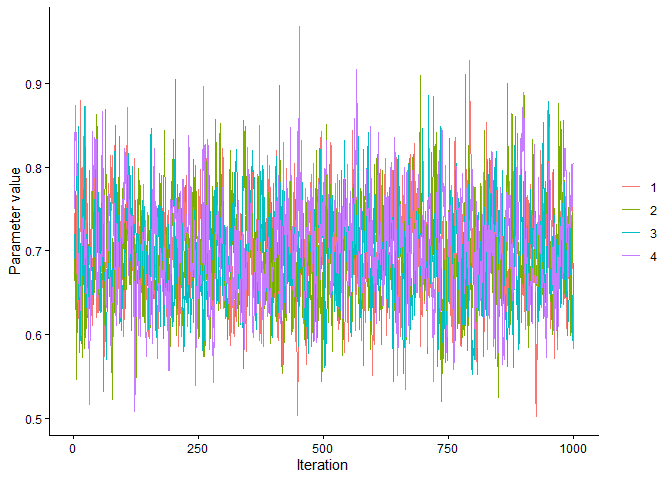
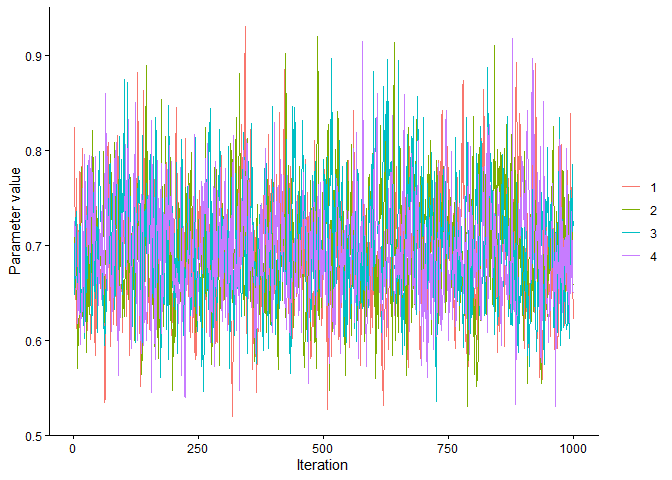
with figs

diff --git a/README.md b/README.md
@@ -142,16 +142,16 @@ library(tidyverse)
 
     ## Warning: Paket 'lubridate' wurde unter R Version 4.5.3 erstellt
 
-    ## ââ Attaching core tidyverse packages ââââââââââââââââââââââââ tidyverse 2.0.0 ââ
-    ## â dplyr     1.2.1     â readr     2.1.5
-    ## â forcats   1.0.1     â stringr   1.6.0
-    ## â ggplot2   4.0.3     â tibble    3.3.1
-    ## â lubridate 1.9.5     â tidyr     1.3.2
-    ## â purrr     1.2.0     
-    ## ââ Conflicts ââââââââââââââââââââââââââââââââââââââââââ tidyverse_conflicts() ââ
-    ## â dplyr::filter() masks stats::filter()
-    ## â dplyr::lag()    masks stats::lag()
-    ## â¹ Use the conflicted package (<http://conflicted.r-lib.org/>) to force all conflicts to become errors
+    ## ── Attaching core tidyverse packages ──────────────────────── tidyverse 2.0.0 ──
+    ## ✔ dplyr     1.2.1     ✔ readr     2.1.5
+    ## ✔ forcats   1.0.1     ✔ stringr   1.6.0
+    ## ✔ ggplot2   4.0.3     ✔ tibble    3.3.1
+    ## ✔ lubridate 1.9.5     ✔ tidyr     1.3.2
+    ## ✔ purrr     1.2.0     
+    ## ── Conflicts ────────────────────────────────────────── tidyverse_conflicts() ──
+    ## ✖ dplyr::filter() masks stats::filter()
+    ## ✖ dplyr::lag()    masks stats::lag()
+    ## ℹ Use the conflicted package (<http://conflicted.r-lib.org/>) to force all conflicts to become errors
 
 ``` r
 data(extraversion, package = "diffIRT")
@@ -172,7 +172,7 @@ Extra$item <- factor(Extra$item)
 head(Extra)
 ```
 
-    ## # A tibble: 6 Ã 4
+    ## # A tibble: 6 × 4
     ##     sbj item   resp    rt
     ##   <int> <fct> <dbl> <dbl>
     ## 1     1 Item1     0 2.73 
@@ -230,26 +230,6 @@ recognized:
 - “qRV” for the Q-diffusion model with random variability (for ability
   tests).
 
-``` r
-samples <- 
-  fitBayesDiffIRT(Extra,
-                  rt = "rt", resp = "resp", sbj = "sbj",
-                  item = "item", model = "d")
-```
-
-    ## In file included from stan/src/stan/model/model_header.hpp:5:
-    ## stan/src/stan/model/model_base_crtp.hpp:205:8: warning: 'void stan::model::model_base_crtp<M>::write_array(stan::rng_t&, std::vector<double>&, std::vector<int>&, std::vector<double>&, bool, bool, std::ostream*) const [with M = ddiffusion_model_namespace::ddiffusion_model; stan::rng_t = boost::random::mixmax_engine<17, 36, 0>; std::ostream = std::basic_ostream<char>]' was hidden [-Woverloaded-virtual=]
-    ##   205 |   void write_array(stan::rng_t& rng, std::vector<double>& theta,
-    ##       |        ^~~~~~~~~~~
-
-    ## C:/Users/marausch/AppData/Local/Temp/RtmpeINp8S/model-38e435d22dd2.hpp:1348: note:   by 'ddiffusion_model_namespace::ddiffusion_model::write_array'
-    ##  1348 |   write_array(RNG& base_rng, std::vector<double>& params_r, std::vector<int>&
-    ## stan/src/stan/model/model_base_crtp.hpp:136:8: warning: 'void stan::model::model_base_crtp<M>::write_array(stan::rng_t&, Eigen::VectorXd&, Eigen::VectorXd&, bool, bool, std::ostream*) const [with M = ddiffusion_model_namespace::ddiffusion_model; stan::rng_t = boost::random::mixmax_engine<17, 36, 0>; Eigen::VectorXd = Eigen::Matrix<double, -1, 1>; std::ostream = std::basic_ostream<char>]' was hidden [-Woverloaded-virtual=]
-    ##   136 |   void write_array(stan::rng_t& rng, Eigen::VectorXd& theta,
-    ##       |        ^~~~~~~~~~~
-    ## C:/Users/marausch/AppData/Local/Temp/RtmpeINp8S/model-38e435d22dd2.hpp:1348: note:   by 'ddiffusion_model_namespace::ddiffusion_model::write_array'
-    ##  1348 |   write_array(RNG& base_rng, std::vector<double>& params_r, std::vector<int>&
-
 ## 4.2 Inspecting the results
 
 The results of a fitted Bayesian diffusion item-response theory model
@@ -275,68 +255,68 @@ summary(samples)
     ## Posterior summaries:
     ## 
     ## Hyperparameters:
-    ## # A tibble: 2 Ã 9
+    ## # A tibble: 2 × 9
     ##   variable     mean median    sd    q5   q95  rhat ess_bulk ess_tail
     ##   <chr>       <dbl>  <dbl> <dbl> <dbl> <dbl> <dbl>    <dbl>    <dbl>
-    ## 1 omega_theta   0.7   0.69  0.06  0.6   0.8      1    1263.    1781.
-    ## 2 omega_gamma   0.2   0.2   0.03  0.16  0.25     1     821.    1309.
+    ## 1 omega_theta   0.7   0.69  0.06  0.6   0.8      1    1219.    2265.
+    ## 2 omega_gamma   0.2   0.2   0.03  0.15  0.25     1     891.    1592.
     ## 
     ## Item parameters:
-    ## # A tibble: 20 Ã 9
+    ## # A tibble: 20 × 9
     ##    variable  mean median    sd    q5   q95  rhat ess_bulk ess_tail
     ##    <chr>    <dbl>  <dbl> <dbl> <dbl> <dbl> <dbl>    <dbl>    <dbl>
-    ##  1 nu[1]    -0.65  -0.65  0.11 -0.82 -0.48     1    1749.    2414.
-    ##  2 nu[2]    -0.14  -0.15  0.1  -0.31  0.02     1    1891.    2659 
-    ##  3 nu[3]    -1.23  -1.24  0.13 -1.45 -1.02     1    2420.    2533.
-    ##  4 nu[4]    -1.7   -1.7   0.14 -1.93 -1.46     1    2200.    2799.
-    ##  5 nu[5]    -0.21  -0.21  0.11 -0.38 -0.03     1    1733.    2282.
-    ##  6 nu[6]    -1.3   -1.3   0.12 -1.5  -1.11     1    2153.    2742.
-    ##  7 nu[7]    -1.69  -1.69  0.14 -1.93 -1.46     1    2275.    2818.
-    ##  8 nu[8]    -1.91  -1.91  0.15 -2.16 -1.68     1    2046.    2822.
-    ##  9 nu[9]    -0.83  -0.83  0.1  -1    -0.66     1    1680.    2061.
-    ## 10 nu[10]   -1.42  -1.42  0.14 -1.65 -1.19     1    2405.    2389.
-    ## 11 a[1]      0.44   0.44  0.02  0.41  0.47     1    2807.    2682.
-    ## 12 a[2]      0.49   0.49  0.02  0.46  0.53     1    2140.    2529.
-    ## 13 a[3]      0.49   0.49  0.02  0.46  0.54     1    2125.    2662.
-    ## 14 a[4]      0.51   0.51  0.03  0.47  0.55     1    1999.    2552.
-    ## 15 a[5]      0.51   0.51  0.02  0.47  0.55     1    2240.    2542.
-    ## 16 a[6]      0.43   0.43  0.02  0.4   0.47     1    2583.    2452.
-    ## 17 a[7]      0.4    0.4   0.02  0.37  0.44     1    2482.    3111.
-    ## 18 a[8]      0.42   0.42  0.02  0.38  0.46     1    2318.    2892.
-    ## 19 a[9]      0.35   0.35  0.02  0.32  0.38     1    2823.    2970.
-    ## 20 a[10]     0.55   0.55  0.03  0.51  0.59     1    2105.    2663.
+    ##  1 nu[1]    -0.65  -0.64  0.1  -0.82 -0.48     1    1665.    2310.
+    ##  2 nu[2]    -0.15  -0.15  0.11 -0.32  0.03     1    1406.    2200.
+    ##  3 nu[3]    -1.24  -1.24  0.13 -1.45 -1.03     1    2011.    2722.
+    ##  4 nu[4]    -1.71  -1.7   0.15 -1.95 -1.47     1    1879.    2711.
+    ##  5 nu[5]    -0.21  -0.21  0.11 -0.38 -0.03     1    1637     2521.
+    ##  6 nu[6]    -1.31  -1.3   0.12 -1.51 -1.11     1    1720.    3034.
+    ##  7 nu[7]    -1.69  -1.69  0.14 -1.93 -1.46     1    1878.    2444.
+    ##  8 nu[8]    -1.92  -1.92  0.15 -2.16 -1.67     1    2226.    3167.
+    ##  9 nu[9]    -0.83  -0.83  0.1  -1    -0.66     1    1539.    2154.
+    ## 10 nu[10]   -1.43  -1.43  0.13 -1.65 -1.21     1    2203.    2675.
+    ## 11 a[1]      0.44   0.44  0.02  0.41  0.47     1    2511.    3050.
+    ## 12 a[2]      0.49   0.49  0.02  0.46  0.53     1    2117.    2638.
+    ## 13 a[3]      0.49   0.49  0.02  0.46  0.53     1    2071.    2952.
+    ## 14 a[4]      0.51   0.51  0.03  0.47  0.55     1    1853.    2734.
+    ## 15 a[5]      0.51   0.51  0.02  0.47  0.55     1    2302.    2736.
+    ## 16 a[6]      0.43   0.43  0.02  0.4   0.47     1    2116.    2996.
+    ## 17 a[7]      0.4    0.4   0.02  0.37  0.44     1    1830.    2529.
+    ## 18 a[8]      0.42   0.42  0.02  0.38  0.46     1    2114.    2681.
+    ## 19 a[9]      0.35   0.35  0.02  0.32  0.38     1    2978.    2983.
+    ## 20 a[10]     0.55   0.55  0.03  0.51  0.59     1    1871.    2803.
     ## 
     ## Subject parameters:
-    ## # A tibble: 429 Ã 9
+    ## # A tibble: 429 × 9
     ##    variable  mean median    sd    q5   q95  rhat ess_bulk ess_tail
     ##    <chr>    <dbl>  <dbl> <dbl> <dbl> <dbl> <dbl>    <dbl>    <dbl>
-    ##  1 tnd[1]    0.37   0.36  0.1   0.22  0.54     1    5755.    2877.
-    ##  2 tnd[2]    0.4    0.4   0.09  0.25  0.54     1    3737.    3196.
-    ##  3 tnd[3]    0.46   0.46  0.11  0.27  0.64     1    4551.    3564.
-    ##  4 tnd[4]    0.27   0.27  0.06  0.18  0.36     1    5968.    3130.
-    ##  5 tnd[5]    0.39   0.39  0.08  0.25  0.51     1    4388.    2859.
-    ##  6 tnd[6]    0.31   0.31  0.06  0.21  0.41     1    4349.    3332.
-    ##  7 tnd[7]    0.39   0.39  0.09  0.24  0.52     1    4538.    3098.
-    ##  8 tnd[8]    0.52   0.52  0.15  0.27  0.77     1    3990.    3510.
-    ##  9 tnd[9]    0.34   0.34  0.07  0.21  0.46     1    5708.    3130.
-    ## 10 tnd[10]   0.43   0.42  0.12  0.24  0.64     1    5313.    3135.
-    ## # â¹ 419 more rows
+    ##  1 tnd[1]    0.37   0.36  0.1   0.22  0.54     1    6252.    2921.
+    ##  2 tnd[2]    0.4    0.4   0.09  0.25  0.54     1    3845.    3489.
+    ##  3 tnd[3]    0.46   0.47  0.11  0.27  0.64     1    3408.    3372.
+    ##  4 tnd[4]    0.27   0.27  0.06  0.18  0.37     1    5628.    2902.
+    ##  5 tnd[5]    0.39   0.39  0.08  0.26  0.51     1    3853.    3182.
+    ##  6 tnd[6]    0.31   0.32  0.06  0.21  0.41     1    3973     2682.
+    ##  7 tnd[7]    0.39   0.39  0.09  0.24  0.53     1    4495.    3159.
+    ##  8 tnd[8]    0.52   0.52  0.15  0.27  0.77     1    3409.    2936.
+    ##  9 tnd[9]    0.34   0.34  0.07  0.22  0.45     1    4401.    2994.
+    ## 10 tnd[10]   0.42   0.41  0.12  0.24  0.65     1    4309.    3089.
+    ## # ℹ 419 more rows
     ## 
     ## Other parameters:
-    ## # A tibble: 429 Ã 9
+    ## # A tibble: 429 × 9
     ##    variable     mean median    sd    q5   q95  rhat ess_bulk ess_tail
     ##    <chr>       <dbl>  <dbl> <dbl> <dbl> <dbl> <dbl>    <dbl>    <dbl>
-    ##  1 z_theta[1]  -0.83  -0.82  0.36 -1.43 -0.25     1    4458.    2674.
-    ##  2 z_theta[2]  -0.31  -0.32  0.55 -1.19  0.62     1    5949.    2729.
-    ##  3 z_theta[3]   0.39   0.39  0.53 -0.49  1.26     1    5324.    3092.
-    ##  4 z_theta[4]   0.49   0.49  0.45 -0.25  1.24     1    5163.    3014.
-    ##  5 z_theta[5]   1.47   1.44  0.68  0.39  2.59     1    6189.    3271.
-    ##  6 z_theta[6]  -0.08  -0.08  0.54 -0.96  0.8      1    6965.    2771.
-    ##  7 z_theta[7]  -0.07  -0.08  0.52 -0.92  0.79     1    5604.    3013.
-    ##  8 z_theta[8]   0.33   0.31  0.55 -0.52  1.25     1    4551.    2334.
-    ##  9 z_theta[9]   0.26   0.26  0.46 -0.5   1.05     1    4771.    2923.
-    ## 10 z_theta[10]  0.37   0.35  0.43 -0.31  1.09     1    4937.    2702.
-    ## # â¹ 419 more rows
+    ##  1 z_theta[1]  -0.82  -0.82  0.35 -1.39 -0.25     1    4382.    2544.
+    ##  2 z_theta[2]  -0.31  -0.31  0.54 -1.19  0.58     1    4894.    2974.
+    ##  3 z_theta[3]   0.38   0.36  0.52 -0.47  1.26     1    5361.    3245.
+    ##  4 z_theta[4]   0.49   0.49  0.46 -0.26  1.24     1    4182.    2793.
+    ##  5 z_theta[5]   1.46   1.46  0.66  0.38  2.57     1    4730.    3173.
+    ##  6 z_theta[6]  -0.07  -0.08  0.52 -0.9   0.78     1    5437.    2986.
+    ##  7 z_theta[7]  -0.07  -0.08  0.52 -0.92  0.81     1    4334.    3113.
+    ##  8 z_theta[8]   0.33   0.3   0.55 -0.54  1.29     1    4268.    2891.
+    ##  9 z_theta[9]   0.25   0.24  0.48 -0.53  1.06     1    4369.    2699.
+    ## 10 z_theta[10]  0.36   0.36  0.45 -0.36  1.11     1    3506.    3086.
+    ## # ℹ 419 more rows
 
 `checkDiagnostics` provides common Stan diagnostics such as number of
 divergeant transitions, R hat, effective sample size, maximum treedepth
@@ -364,8 +344,6 @@ method:
 plot(samples, parameter = "omega_theta", type = "trace")
 ```
 
-    ## Warning: Dropping 'draws_df' class as required metadata was removed.
-
 ![](README_files/figure-gfm/unnamed-chunk-6-1.png)<!-- -->
 
 There is also the possibility to plot posterior means with 50% and 95%
@@ -375,8 +353,6 @@ credible intervals as well as marginal posterior densities.
 plot(samples, parameter = "theta", type = "interval")
 ```
 
-    ## Warning: Dropping 'draws_df' class as required metadata was removed.
-
 ![](README_files/figure-gfm/unnamed-chunk-7-1.png)<!-- -->
 
 ``` r
@@ -384,11 +360,25 @@ plot(samples, parameter = "omega_theta",
      type = "density")
 ```
 
-    ## Warning: Dropping 'draws_df' class as required metadata was removed.
-
 ![](README_files/figure-gfm/unnamed-chunk-7-2.png)<!-- -->
 
 <!-- Posterior predictive distibution hinzufügen!  -->
+
+The posterior predictive distributions can be visualized using
+`ppCheck`. Set type = “response” to visualize the predicted probability
+of a correct response / item acceptance as a function of item or person.
+
+``` r
+ppCheck(samples, type = "response", group = "item")
+```
+
+![](README_files/figure-gfm/unnamed-chunk-8-1.png)<!-- -->
+
+``` r
+ppCheck(samples, type = "response", group = "person")
+```
+
+![](README_files/figure-gfm/unnamed-chunk-8-2.png)<!-- -->
 
 # 5 Contributing to the package
 